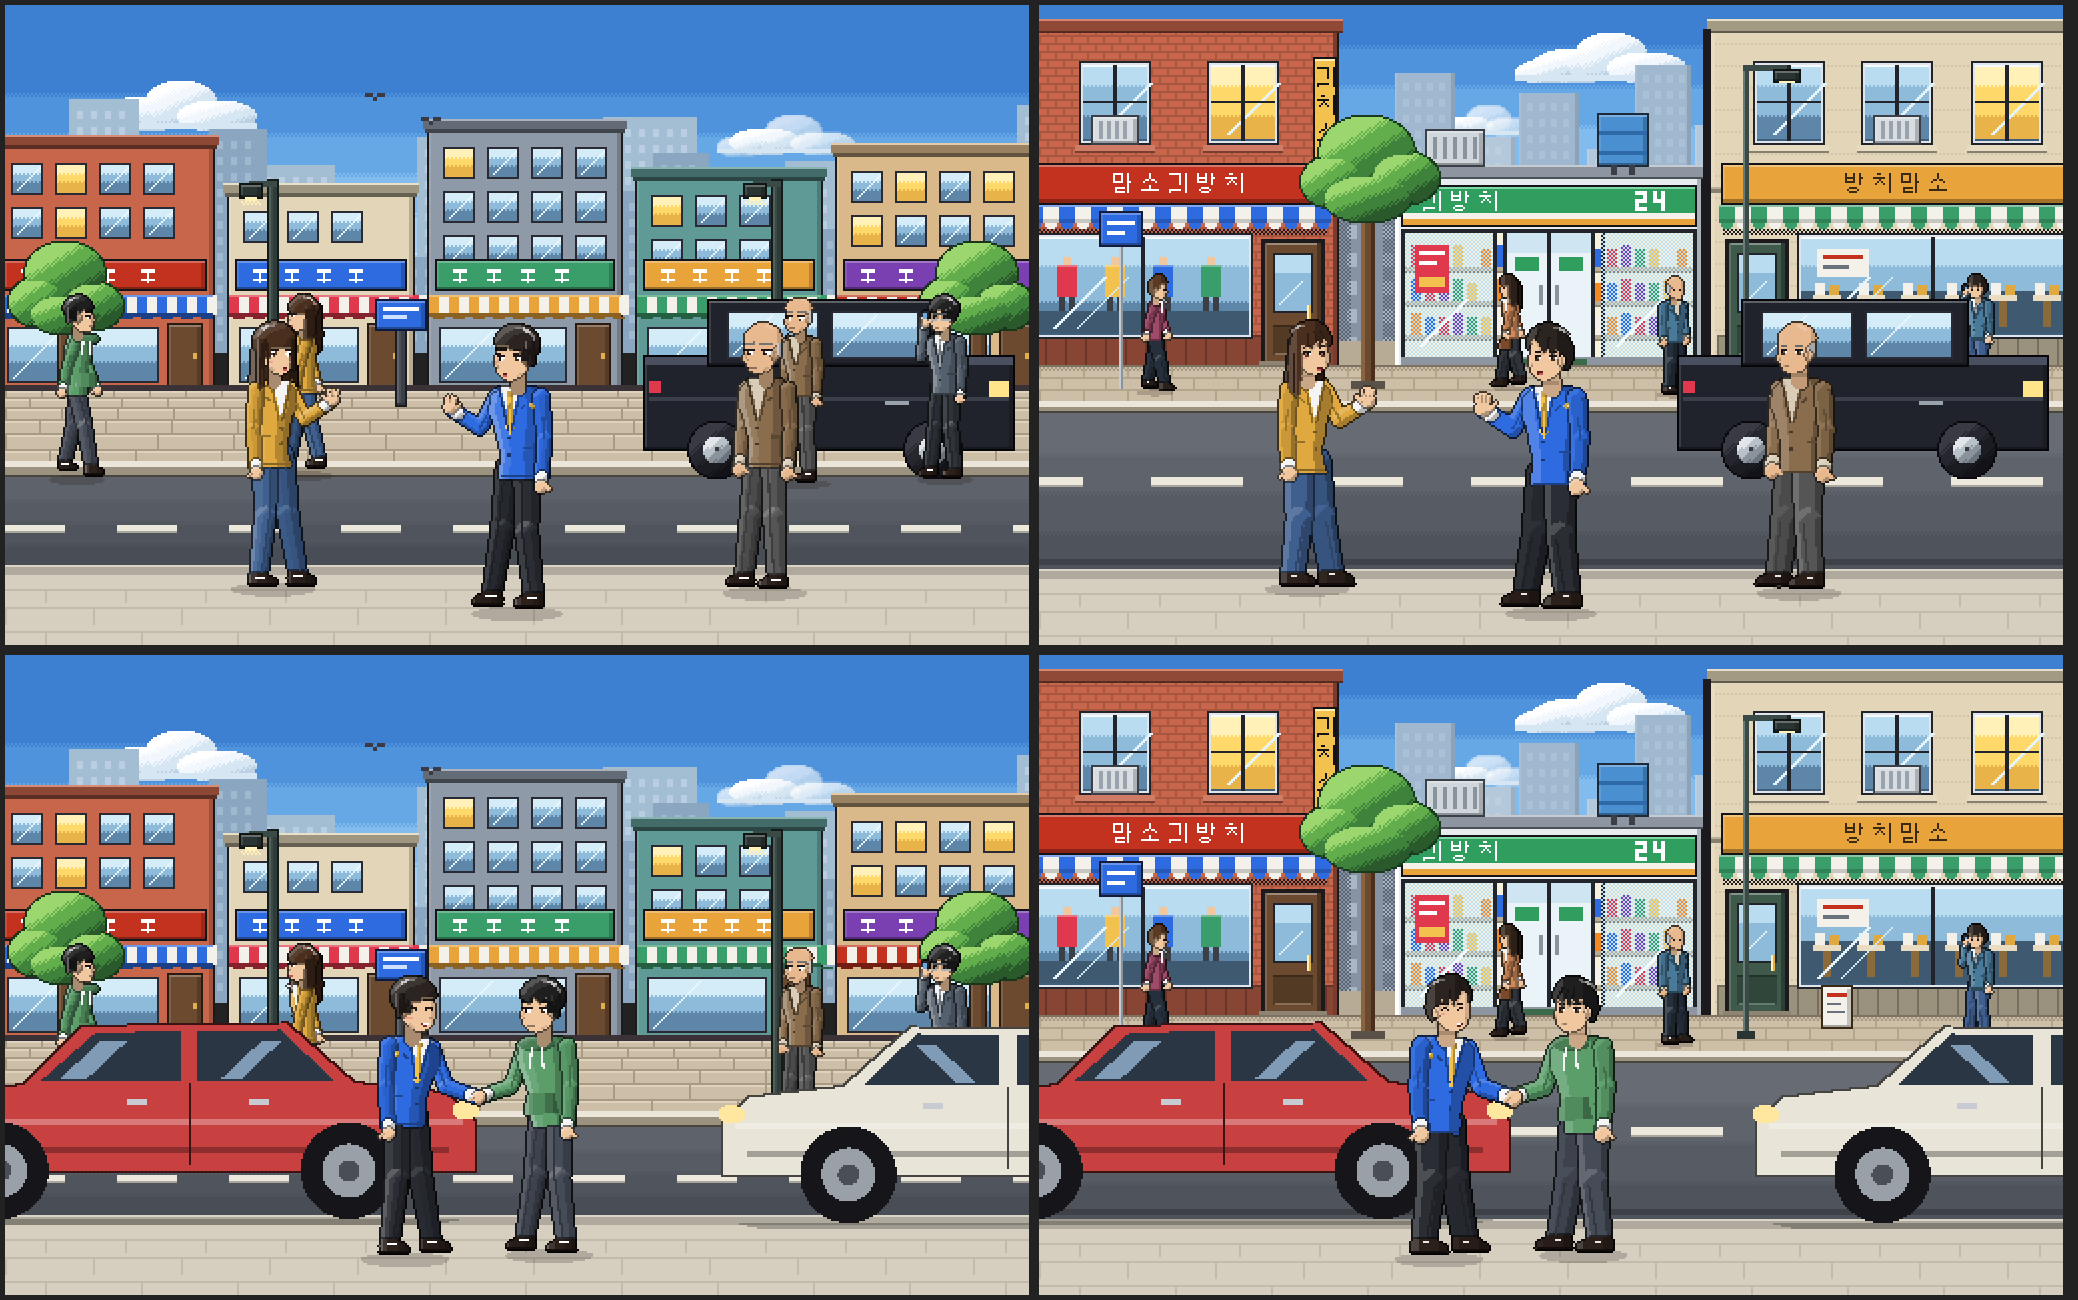
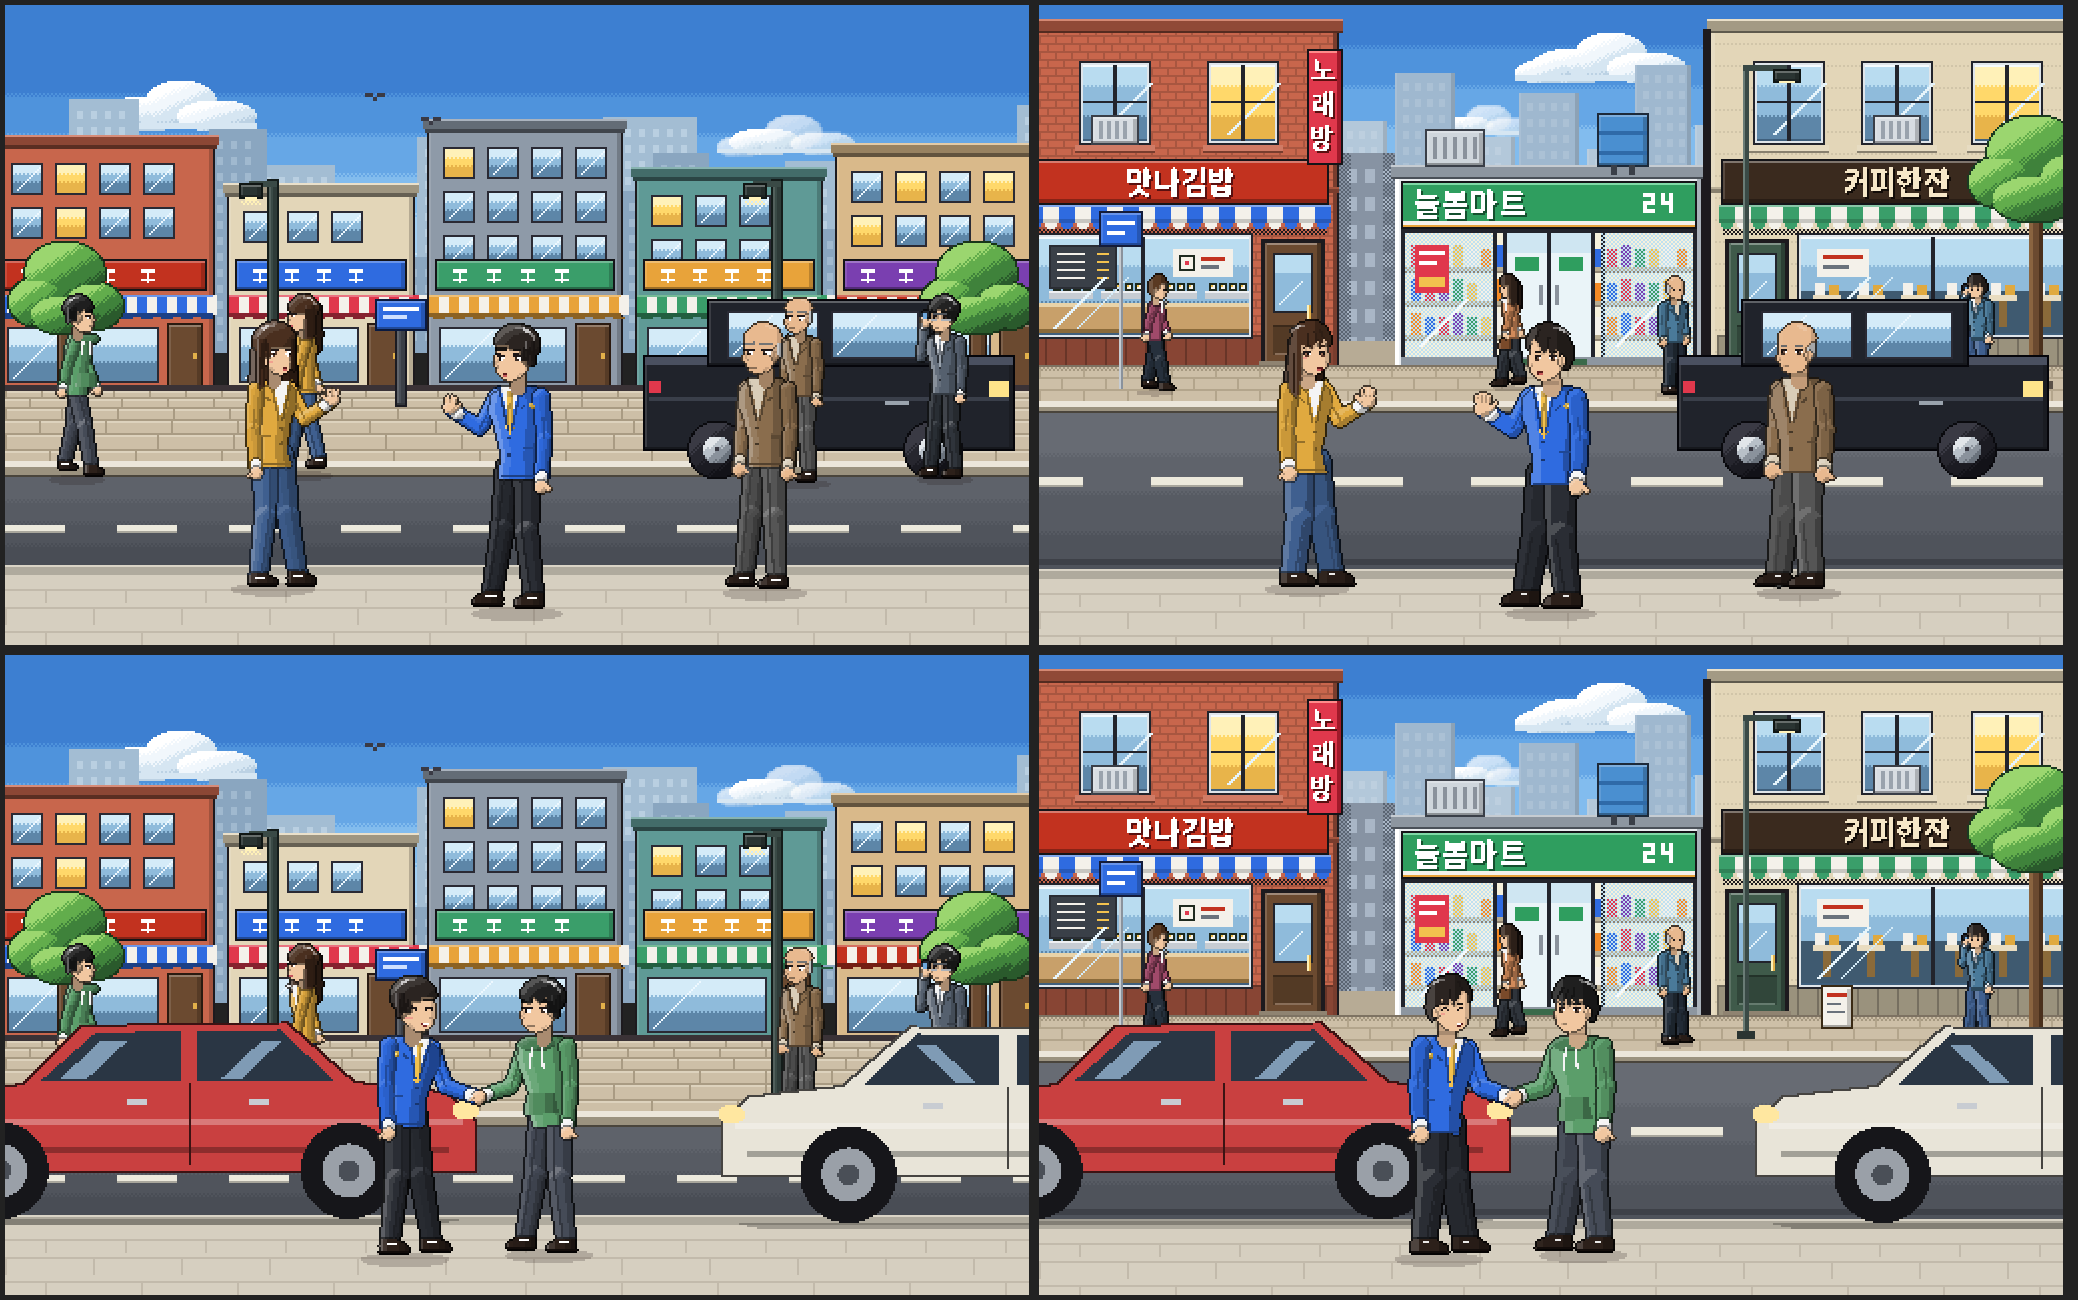
도트 3판 시안 3: 간판 글자를 굵은 한글 비트맵으로(맛나김밥·늘봄마트·커피한잔·노래방), 김밥집 진열, 가로수 위치 조정
Claude-Session: https://claude.ai/code/session_013m8QWBoerfQ3FYRNweRjck

Changed region(s): [[0.4928, 0.5231, 1.0, 0.8], [0.4928, 0.0308, 1.0, 0.3077], [0.4928, 0.1846, 0.616, 0.2769]]

diff --git a/proto/dot3_street.js b/proto/dot3_street.js
@@ -1,6 +1,8 @@
 /* ── 거리 배경 3판: 인물 크기에 맞춘 전체 그림 ──
    건물 발치 y=180(그 깊이에서 사람 키 약 47px, 1m≈28px). 문 높이 2.1m≈60px, 1층 천장 y=93, 2층 지붕 y=12.
    지평선은 y=118이라 먼 건물은 1층 가게 지붕 위와 골목 사이로만 보인다. */
+// 간판 글자: Noto Sans CJK KR Bold를 15·13픽셀로 그려 1비트로 자른 비트맵(기기마다 같게 보이도록 박아 둠)
+const SIGNF={"15맛":[".........#..","######..###.","#######.###.","##...##.###.","##...##.####","##...##.####","#######.###.","#######.###.","........###.",".....##.###.",".....##.....","....####....","...######...",".####..####.",".##......##."],"15나":[".........#..","........###.","##......###.","##......###.","##......###.","##......###.","##......####","##......####","##......###.","###########.","#######.###.","........###.","........###.","........###.","........###."],"15김":[".........##","#######..##",".######..##","....###..##","....##...##","...###...##",".####....##","###......##","#..........","..#########","..#########","..##.....##","..##.....##","..#########","..#########"],"15밥":[".........#..","##...##.###.","##...##.###.","#######.####","#######.####","##...##.###.","#######.###.","######..###.","............",".###....###.",".##########.",".##########.",".###....###.",".##########.","..########.."],"15늘":[".##.........",".##.........",".##.........",".##########.",".#########..","............","############","############",".#########..",".##########.",".........##.",".##########.",".###........",".##########.",".##########."],"15봄":["............",".##......##.",".##########.",".##########.",".##########.",".##########.",".....##.....","############","############","............",".##########.",".##########.",".##......##.",".##########.",".##########."],"15마":["........##...","######..###..","#######.###..","##...##.###..","##...##.###..","##...##.###..","##...##.#####","##...##.####.","##...##.###..","##...##.###..","#######.###..","######..###..","........###..","........###..","........###.."],"15트":["............",".#########..",".##########.",".##.........",".#########..",".#########..",".##.........",".##.........",".##########.",".##########.","............","############","############","............","............"],"15커":[".........##",".#####...##","#######..##",".....##..##","....###..##",".#####...##","######.####","...###.####","...##....##","..###....##","####.....##","###......##","#........##",".........##",".........##"],"15피":[".........##","#######..##","########.##",".##..##..##",".##..##..##",".##..##..##",".##..##..##",".##..##..##",".##..##..##",".##..##..##","########.##","#####....##",".........##",".........##",".........##"],"15한":["...##...###.","...##...###.","###########.","#######.###.","..####..###.",".######.####","##...##.####","###..##.###.",".#####..###.","...#....###.","..#.....###.","..##........","..##........","..#########.","..#########."],"15잔":[".........#..","#######.###.","###########.","...##...###.","..###...####","..####..####",".##.###.###.","###..######.","##....#.###.","........###.","..##....###.","..##........","..##........","..#########.","..#########."],"13노":["............","..#.........","..##........","..##........","..##........","..##........","..########..",".....##.....",".....##.....",".....##.....","############","............","............"],"13래":["......#.##",".....##.##","####.##.##","...#.##.##","...#.##.##","####.#####","##...#####","##...##.##","#######.##","#######.##",".....##.##",".....##.##","........##"],"13방":[".......##..","##..##.##..","##..##.##..","######.####","##..##.##..","##..##.##..","######.##..",".......##..","..######...",".###..###..",".##....##..",".###..###..","..######..."]};
 function streetV3(c,H){const{P,dith,bands,blk,blob,cloud}=H,B=180,FL=93;
   // 가짜 한글 간판 글자(9×10)
   const GL=[[[0,0,5,1],[0,0,1,5],[4,0,1,5],[0,4,5,1],[7,0,1,10],[7,4,2,1],[1,7,5,1],[1,7,1,3],[1,9,5,1]],
@@ -9,6 +11,9 @@ function streetV3(c,H){const{P,dith,bands,blk,blob,cloud}=H,B=180,FL=93;
     [[0,0,1,5],[4,0,1,5],[0,2,5,1],[0,4,5,1],[7,0,1,6],[7,2,2,1],[2,7,4,1],[1,8,1,1],[6,8,1,1],[2,9,4,1]],
     [[2,0,2,1],[0,2,6,1],[3,3,1,1],[2,4,1,1],[4,4,1,1],[1,5,1,1],[5,5,1,1],[8,0,1,10]]];
   const glyph=(x,y,k,col)=>GL[k%5].forEach(([a,b,w,h])=>P(x+a,y+b,w,h,col));
+  const tw=(str,sz)=>[...str].reduce((a,ch)=>a+SIGNF[sz+ch][0].length,0)+([...str].length-1)*2;
+  const text=(x,y,str,sz,ink,sh)=>{let cx=x;for(const ch of str){const g=SIGNF[sz+ch];if(sh)g.forEach((r,j)=>{for(let i=0;i<r.length;i++)if(r[i]==='#')P(cx+i+1,y+j+1,1,1,sh)});
+    g.forEach((r,j)=>{let i=0;while(i<r.length){if(r[i]!=='#'){i++;continue}let n=1;while(r[i+n]==='#')n++;P(cx+i,y+j,n,1,ink);i+=n}});cx+=g[0].length+2}};
   // 유리: 알루미늄 틀 + 3단 유리 + 사선 반사
   const glass=(x,y,w,h,lit,show)=>{P(x-2,y-2,w+4,h+4,'#22242c');P(x-1,y-1,w+2,h+2,'#dfe5ea');
     const g=lit?['#fff1b8','#ffd86a','#e8b44a']:['#b9dcf0','#8fbbdb','#5d86a8'],h1=Math.round(h*.3),h2=Math.round(h*.68);
@@ -32,9 +37,9 @@ function streetV3(c,H){const{P,dith,bands,blk,blob,cloud}=H,B=180,FL=93;
         P(wx-4,70,40,3,lt);P(wx-4,73,40,1,dk);
         if(i===o.ac){blk(wx+5,56,22,13,'#d8dde2','#3a3f48');for(let k=0;k<4;k++)P(wx+8+k*4,58,2,9,'#9aa3ad')}}
       P(x,FL-2,w,3,dk);P(x,FL-2,w,1,shade(wall,.82))}
-    const sy=two?FL-13:FL-3,sh=19;
+    const sy=two?FL-15:FL-3,sh=21;
     P(x+5,sy-1,w-10,sh+2,'#141418');P(x+6,sy,w-12,sh,o.sign);P(x+6,sy,w-12,1,shade(o.sign,1.35));P(x+6,sy+1,1,sh-1,shade(o.sign,1.15));P(x+6,sy+sh-2,w-12,2,shade(o.sign,.7));
-    const gn=o.gn||4,gw=14,gx0=x+(w-gn*gw)/2;for(let i=0;i<gn;i++)glyph(Math.round(gx0+i*gw+2),sy+4,o.g0+i,o.ink||'#ffffff');
+    text(Math.round(x+(w-tw(o.name,15))/2),sy+3,o.name,15,o.ink||'#ffffff',o.sh||shade(o.sign,.5));
     const ay=sy+sh+1;
     if(o.aw){for(let k=0;k<w-8;k+=8){const cl=(k/8)%2?'#f4f1ea':o.aw;P(x+4+k,ay,8,9,cl);P(x+4+k,ay+7,8,2,shade(cl,.82));P(x+5+k,ay+9,6,2,cl);P(x+6+k,ay+11,4,1,cl)}
       P(x+4,ay,w-8,1,shade(o.aw,1.4));dith(x+6,ay+12,w-12,3,'#1d1a1e')}
@@ -51,20 +56,24 @@ function streetV3(c,H){const{P,dith,bands,blk,blob,cloud}=H,B=180,FL=93;
   // ── 건물 3채 ──
   const showCafe=(x,y,w,h)=>{P(x,y+h-22,w,22,'#3f5a70');for(let k=x+6;k<x+w-12;k+=22){P(k,y+h-20,14,3,'#e9dcc0');P(k+5,y+h-17,4,13,'#8a6a3a');P(k+1,y+h-26,5,6,'#f4f1ea');P(k+8,y+h-25,5,5,'#e0a93f')}
     P(x+8,y+6,26,14,'#f4f1ea');P(x+11,y+9,20,2,'#c2321f');P(x+11,y+14,13,2,'#6a727c')};
+  const showKimbap=(x,y,w,h)=>{P(x,y+h-16,w,16,'#c8a06a');P(x,y+h-16,w,2,'#e9d3a8');P(x,y+h-3,w,3,'#8a6a3a');
+    for(let k=x+6;k<x+w-18;k+=26){P(k,y+h-22,22,4,'#c6ccd2');P(k,y+h-22,22,1,'#eef0f2');for(let m=0;m<4;m++){const rx=k+2+m*5;P(rx,y+h-26,4,4,'#1f2a1f');P(rx+1,y+h-25,2,2,'#f6f2e8');P(rx+1,y+h-25,1,1,'#f2c14e')}}
+    P(x+6,y+4,34,22,'#2a2d34');P(x+7,y+5,32,20,'#3a4048');for(let i=0;i<4;i++){P(x+10,y+8+i*4,14,1,'#f4f1ea');P(x+30,y+8+i*4,6,1,'#f2c14e')}
+    P(x+w-38,y+6,30,14,'#f4f1ea');P(x+w-35,y+9,8,8,'#1f2a1f');P(x+w-34,y+10,6,6,'#f6f2e8');P(x+w-32,y+12,2,2,'#e0384c');P(x+w-24,y+10,12,2,'#c2321f');P(x+w-24,y+14,9,2,'#6a727c')};
   const showCloth=(x,y,w,h)=>{P(x,y+h-12,w,12,'#3f5a70');const cs=['#e0384c','#f2c14e','#2f6be0','#3a9e6a'];
     for(let i=0,k=x+10;k<x+w-14;k+=24,i++){P(k+3,y+10,4,4,'#f1c7a0');P(k,y+14,10,16,cs[i%4]);P(k,y+14,10,1,shade(cs[i%4],1.3));P(k+1,y+30,3,h-42,'#3b3f48');P(k+6,y+30,3,h-42,'#3b3f48')}};
-  shop(-10,160,{fl:2,wall:'#c8664c',brick:1,sign:'#c2321f',g0:0,gn:5,aw:'#2f6be0',door:'R',lit:1,ac:0,show:showCloth});
+  shop(-10,160,{fl:2,wall:'#c8664c',brick:1,sign:'#c2321f',name:'맛나김밥',sh:'#5a1010',aw:'#2f6be0',door:'R',lit:1,ac:0,show:showKimbap});
   // 세로 돌출 간판
-  P(137,26,12,56,'#141418');P(138,27,10,54,'#f2c14e');P(138,27,10,1,'#fff1b8');glyph(139,31,2,'#141418');glyph(139,45,4,'#141418');glyph(139,59,1,'#141418');
+  P(134,22,18,58,'#141418');P(135,23,16,56,'#e0384c');P(135,23,16,1,'#ff8a8a');P(149,23,2,56,'#a01a2a');['노','래','방'].forEach((ch,i)=>{const g=SIGNF['13'+ch];text(135+Math.floor((14-g[0].length)/2),26+i*17,ch,13,'#ffffff','#5a1010')});
   // 편의점(1층)
   {const x=178,w=154,top=FL-8;P(x,top,w,B-top,'#e9ecef');P(x,top,2,B-top,'#ffffff');P(x+w-3,top,3,B-top,'#aab2ba');P(x+w-1,top,1,B-top,'#1d1a1e');
     P(x-2,top-5,w+4,6,'#8d96a0');P(x-2,top-5,w+4,1,'#c6ccd2');P(x-2,top+1,w+4,1,'#4a5058');
     blk(x+16,top-22,28,17,'#cfd6dc','#3a3f48');for(let k=0;k<5;k++)P(x+19+k*5,top-19,2,11,'#8a929c');
     blk(x+w-52,top-30,24,25,'#4a8fd0','#1d2a3a');P(x+w-52,top-22,24,2,'#2f6aa8');P(x+w-52,top-12,24,2,'#2f6aa8');P(x+w-46,top-5,3,5,'#3a3f48');P(x+w-37,top-5,3,5,'#3a3f48');
-    P(x+3,top+5,w-6,21,'#141418');P(x+4,top+6,w-8,19,'#2f9e5f');P(x+4,top+6,w-8,1,'#7fd9a6');P(x+4,top+19,w-8,3,'#f4f1ea');P(x+4,top+22,w-8,3,'#e8a33a');
-    for(let i=0;i<3;i++)glyph(x+14+i*14,top+8,i+2,'#ffffff');
+    P(x+3,top+3,w-6,24,'#141418');P(x+4,top+4,w-8,22,'#2f9e5f');P(x+4,top+4,w-8,1,'#7fd9a6');P(x+4,top+23,w-8,2,'#f4f1ea');P(x+4,top+25,w-8,1,'#e8a33a');
+    text(x+10,top+7,'늘봄마트',15,'#ffffff','#14502e');
     // 24
-    {const nx=x+w-34,ny=top+8;[[0,0,6,2],[4,0,2,6],[0,4,6,2],[0,4,2,6],[0,8,6,2],[9,0,2,6],[13,0,2,10],[9,4,6,2]].forEach(([a,b,ww,hh])=>P(nx+a,ny+b,ww,hh,'#ffffff'))}
+    {const nx=x+w-30,ny=top+9;[[0,0,6,2],[4,0,2,6],[0,4,6,2],[0,4,2,6],[0,8,6,2],[9,0,2,6],[13,0,2,10],[9,4,6,2]].forEach(([a,b,ww,hh])=>P(nx+a,ny+b,ww,hh,'#ffffff'))}
     const gy=top+29,gh=B-gy-4;P(x+3,gy-2,w-6,gh+4,'#22242c');P(x+5,gy,w-10,gh,'#f6f1dc');
     // 진열대
     const cs=['#e0384c','#f2c14e','#2f6be0','#3a9e6a','#f58a24','#7a3fb0','#f4f1ea'];
@@ -77,7 +86,7 @@ function streetV3(c,H){const{P,dith,bands,blk,blob,cloud}=H,B=180,FL=93;
     for(let i=0;i<24;i++){P(x+12+i,gy+gh-6-i,2,1,'#f4fafd');P(x+w-44+i,gy+gh-6-i,2,1,'#f4fafd')}
     P(x+10,gy+6,17,24,'#e0384c');P(x+12,gy+9,13,2,'#ffffff');P(x+12,gy+14,9,2,'#ffffff');P(x+12,gy+22,13,5,'#f2c14e');
     P(x+3,B-4,w-6,4,'#8d96a0');P(dx+2,B-3,38,3,'#3a6a4a')}
-  shop(336,186,{fl:2,wall:'#e3d6b8',sign:'#e8a33a',ink:'#3a2a14',g0:3,gn:4,aw:'#3a9e6a',door:'L',dcol:'#3f5a4a',lit:2,ac:1,show:showCafe});
+  shop(336,186,{fl:2,wall:'#e3d6b8',sign:'#3a2a1e',name:'커피한잔',ink:'#f6e7c8',sh:'#120c08',aw:'#3a9e6a',door:'L',dcol:'#3f5a4a',lit:2,ac:1,show:showCafe});
   P(332,12,4,168,'#1d1a1e');
   // ── 뒤쪽 인도 ──
   P(0,B,512,19,'#cdbfa7');for(let y=B,row=0;y<B+18;y+=6,row++){P(0,y,512,1,'#b3a58c');for(let k=(row%2)*11;k<512;k+=22)P(k,y,1,6,'#b3a58c')}
@@ -87,7 +96,7 @@ function streetV3(c,H){const{P,dith,bands,blk,blob,cloud}=H,B=180,FL=93;
   blk(392,166,14,20,'#f4f1ea','#3a2a14');P(394,169,10,2,'#c2321f');P(394,174,7,1,'#6a727c');P(394,178,9,1,'#6a727c');
   P(40,118,2,74,'#8a929c');P(40,118,1,74,'#c6ccd2');blk(31,104,20,16,'#2f6be0','#141c3a');P(34,108,14,2,'#ffffff');P(34,113,9,2,'#ffffff');
   P(352,30,3,162,'#3a4a46');P(352,30,1,162,'#6a7c76');P(352,30,22,3,'#3a4a46');blk(368,33,12,5,'#2a3432','#101614');P(370,38,8,1,'#fff1b8');P(349,188,9,4,'#2a3432');
-  {const tx=164;P(tx-3,96,7,94,'#6b4a30');P(tx-3,96,2,94,'#8a6440');P(tx+2,96,2,94,'#4a301c');P(tx-8,188,17,4,'#5a5148');
+  {const tx=498;P(tx-3,96,7,94,'#6b4a30');P(tx-3,96,2,94,'#8a6440');P(tx+2,96,2,94,'#4a301c');P(tx-8,188,17,4,'#5a5148');
     const Tn=['#9bd66f','#62ad4c','#3f823b','#2a5a2c'],O='#1a3a20',L=[[0,-106,24,19],[-17,-92,16,13],[19,-94,17,13],[0,-84,22,12]];
     L.forEach(([dx,dy,rx,ry])=>blob(tx+dx,B+dy,rx,ry,Tn,O));L.forEach(([dx,dy,rx,ry])=>blob(tx+dx,B+dy,rx-1,ry-1,Tn))}
   // ── 차도 ──

diff --git a/proto/dot3_glyphs.py b/proto/dot3_glyphs.py
@@ -1,0 +1,26 @@
+# 간판 글자 비트맵: Noto Sans CJK KR Black을 작은 크기로 그려 1비트로 자르고, 기기마다 같게 보이도록 코드에 박아 넣는다
+from PIL import Image, ImageDraw, ImageFont
+import sys, json
+F='/usr/share/fonts/opentype/noto/NotoSansCJK-Black.ttc'
+def bitmap(ch,size,th=110):
+    # ttc 안에서 KR 글꼴 번호 찾기
+    for idx in range(10):
+        try:
+            f=ImageFont.truetype(F,size,index=idx)
+        except Exception: break
+        if 'KR' in ' '.join(f.getname()): break
+    im=Image.new('L',(size*2,size*2),0);d=ImageDraw.Draw(im);d.text((size//2,size//2),ch,font=f,fill=255)
+    px=im.load();W,H=im.size
+    on=[(x,y) for y in range(H) for x in range(W) if px[x,y]>th]
+    x0=min(x for x,_ in on);x1=max(x for x,_ in on);
+    return on,x0,x1
+out={}
+for size,chars in [(int(a.split(':')[0]),a.split(':')[1]) for a in sys.argv[1:]]:
+    # 같은 크기 글자는 위아래 기준선을 맞춘다
+    bms={c:bitmap(c,size) for c in chars}
+    y0=min(y for on,_,_ in bms.values() for _,y in on);y1=max(y for on,_,_ in bms.values() for _,y in on)
+    for c,(on,x0,x1) in bms.items():
+        w=x1-x0+1;h=y1-y0+1;rows=[['.']*w for _ in range(h)]
+        for x,y in on: rows[y-y0][x-x0]='#'
+        out[f'{size}{c}']=[''.join(r) for r in rows]
+print(json.dumps(out,ensure_ascii=False))
